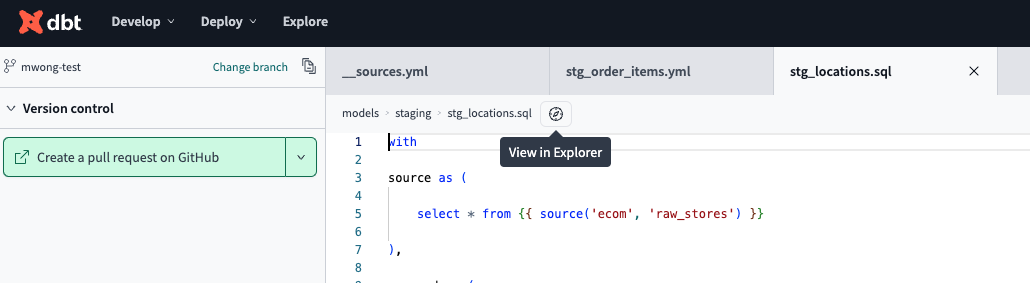
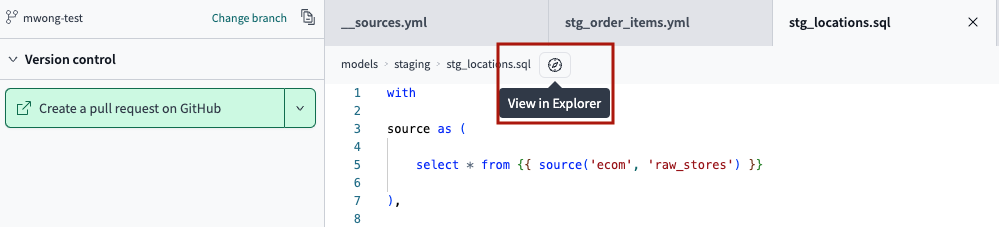
update img and fold matt's feedback

diff --git a/website/docs/docs/collaborate/access-from-dbt-cloud.md b/website/docs/docs/collaborate/access-from-dbt-cloud.md
@@ -4,32 +4,35 @@ sidebar_label: "Access from dbt Cloud"
 description: "Learn where and how to directly access and interact with dbt Explorer from dbt Cloud features and products."
 ---
 
-<p style={{ color: '#808080', fontSize: '1.1em' }}>
 Access dbt Explorer from other features and products inside dbt Cloud, ensuring you have a seamless experience navigating between resources and lineage in your project. 
-</p>
 
 This page explains how to access dbt Explorer from various dbt Cloud features, including the dbt Cloud IDE and jobs. While the primary way to navigate to dbt Explorer is through the **Explore** link in the navigation, you can also access it from other dbt Cloud features.
 
 ### dbt Cloud IDE 
-You can enhance your project navigation and editing experience by directly accessing resources from the [dbt Cloud IDE](/docs/cloud/dbt-cloud-ide/develop-in-the-cloud) to dbt Explorer for model, seed, or snapshot files. This workflow offers a seamless transition between the IDE and Explorer, allowing you to quickly view and interact with your project's metadata and lineage.
+You can enhance your project navigation and editing experience by directly accessing resources from the [dbt Cloud IDE](/docs/cloud/dbt-cloud-ide/develop-in-the-cloud) to dbt Explorer for model, seed, or snapshot files. This workflow offers a seamless transition between the IDE and Explorer, allowing you to quickly navigate between viewing project metadata and making updates to your models or other resources without switching contexts.
 
-- **Access dbt Explorer from the IDE** &mdash; In your model, seed, or snapshot file, click the **View in Explorer** icon to the right of your file breadcrumb (under the file name tab). This opens the model, seed, or snapshot file in a new tab, allowing you to view resources/lineage directly in Explorer. 
-- **Use cases** &mdash; Navigate between viewing project metadata and making updates to your models or other resources without switching contexts.
+#### Access dbt Explorer from the IDE
+- In your model, seed, or snapshot file, click the **View in Explorer** icon to the right of your file breadcrumb (under the file name tab). 
+- This opens the model, seed, or snapshot file in a new tab, allowing you to view resources/lineage directly in Explorer. 
 
 <Lightbox src="/img/docs/collaborate/dbt-explorer/explorer-from-ide.jpg" title="Access dbt Explorer from the IDE by clicking on the 'View in Explorer' icon next to the file breadcrumbs. " />
 
 ### Lineage tab in jobs
-The **lineage tab** in dbt Cloud jobs displays the lineage associated with the [job run](/docs/deploy/jobs). Access dbt Explorer directly from this tab, allowing you to navigate between both product areas with ease.
+The **Lineage tab** in dbt Cloud jobs displays the lineage associated with the [job run](/docs/deploy/jobs). Access dbt Explorer directly from this tab, allowing you understand dependencies/relationships of resources in your project.
 
-- **Access dbt Explorer from the lineage tab** &mdash; From a job, select the lineage tab. Double-click the node in the lineage to open a new tab and view its metadata directly in dbt Explorer.
-- **Use cases** &mdash; Understand dependencies/relationships of resources in your project.
+#### Access dbt Explorer from the lineage tab
+- From a job, select the **Lineage tab**. 
+- Double-click the node in the lineage to open a new tab and view its metadata directly in dbt Explorer.
 
 <Lightbox src="/img/docs/collaborate/dbt-explorer/explorer-from-lineage.gif" title="Access dbt Explorer from the lineage tab by double-clicking on the lineage node." />
 
-### Model timing tab in jobs
-The [model timing tab](/docs/deploy/run-visibility#model-timing) in dbt Cloud jobs displays the composition, order, and time taken by each model in a job run. Access dbt Explorer directly from the modeling timing tab, which helps you investigate resources and potentially make changes to improve their performance.
+### Model timing tab in jobs <Lifecycle status="enterprise,team"/>
+The [model timing tab](/docs/deploy/run-visibility#model-timing) in dbt Cloud jobs displays the composition, order, and time taken by each model in a job run. 
 
-- **Access dbt Explorer from the model timing tab** &mdash; From a job, select the model timing tab. Hover over a resource and click on **View on Explorer** to view the resource metadata directly in dbt Explorer. 
-- **Use cases** &mdash; Diagnose performance bottlenecks and understand dependencies/relationships of slow-running models in your project.
+Access dbt Explorer directly from the **modeling timing tab**, which helps you investigate resources, diagnose performance bottlenecks, understand dependencies/relationships of slow-running models, and potentially make changes to improve their performance.
+
+#### Access dbt Explorer from the model timing tab
+- From a job, select the **model timing tab**.
+- Hover over a resource and click on **View on Explorer** to view the resource metadata directly in dbt Explorer. 
 
 <Lightbox src="/img/docs/collaborate/dbt-explorer/explorer-from-model-timing.jpg" title="Access dbt Explorer from the model timing tab by hovering over the resource and clicking 'View in Explorer'." />
